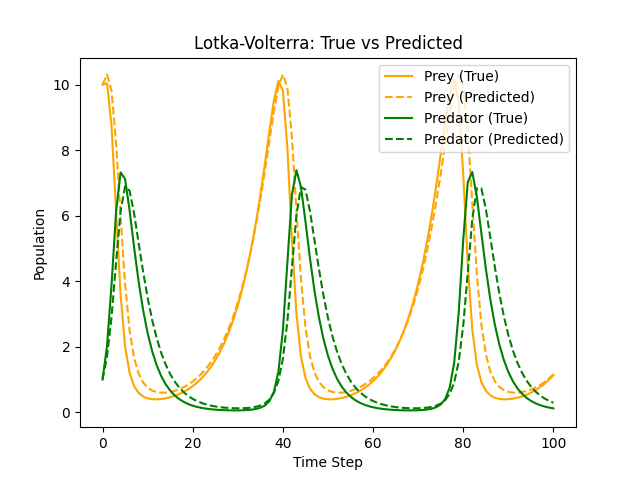
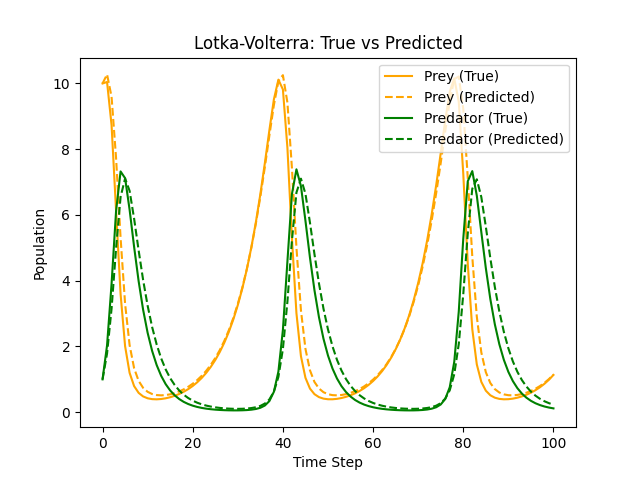
minor fixes: updated tutorial and output image file with new results

diff --git a/docs/tutorials/learn_parameter_lotka_volterra_ode.rst b/docs/tutorials/learn_parameter_lotka_volterra_ode.rst
@@ -153,8 +153,8 @@ parameters using a single backward pass, without storing the full forward trajec
         y_array: ℝ[m] = states[1]
         m: ℝ = get_1d_array_length(x_array)
         s: ℝ[2] = [
-            2 * (x_array[m-1] - true_x[m-1]) / m,
-            2 * (y_array[m-1] - true_y[m-1]) / m
+            2 * (x_array[m-1] - true_x[m-1]),
+            2 * (y_array[m-1] - true_y[m-1])
         ]
         L: ℝ[4] = zero_1d_array(4)
         for i:ℕ(m-1):
@@ -249,8 +249,8 @@ We start with an initial guess and run 1000 epochs:
 .. code-block:: text
 
     θ: ℝ[4] = [1.0, 0.7, 2.5, 0.7]  
-    learning_rate: ℝ = 0.05
-    epochs: ℕ = 1000
+    learning_rate: ℝ = 0.0005
+    epochs: ℕ = 2000
 
     for i:ℕ(epochs):
         g = adjoint_grad(θ)
@@ -264,7 +264,7 @@ Step 7: Visualize Results
 
 .. code-block:: text
 
-   pred_results = solver(theta)
+   pred_results = solver(θ)
    plot_trajectories(true_results, pred_results)
 
 .. note::
@@ -371,8 +371,8 @@ Full Code
         y_array: ℝ[m] = states[1]
         m: ℝ = get_1d_array_length(x_array)
         s: ℝ[2] = [
-            2 * (x_array[m-1] - true_x[m-1]) / m,
-            2 * (y_array[m-1] - true_y[m-1]) / m
+            2 * (x_array[m-1] - true_x[m-1]),
+            2 * (y_array[m-1] - true_y[m-1])
         ]
         L: ℝ[4] = zero_1d_array(4)
         for i:ℕ(m-1):
@@ -387,14 +387,14 @@ Full Code
         return L
 
     θ: ℝ[4] = [1.0, 0.7, 2.5, 0.7]  
-    learning_rate: ℝ = 0.05
-    epochs: ℕ = 1000
+    learning_rate: ℝ = 0.0005
+    epochs: ℕ = 2000
 
     for i:ℕ(epochs):
         g = adjoint_grad(θ)
         θ = θ - learning_rate * g
     
-    pred_results = solver(theta)
+    pred_results = solver(θ)
     plot_trajectories(true_results, pred_results)
 
 
